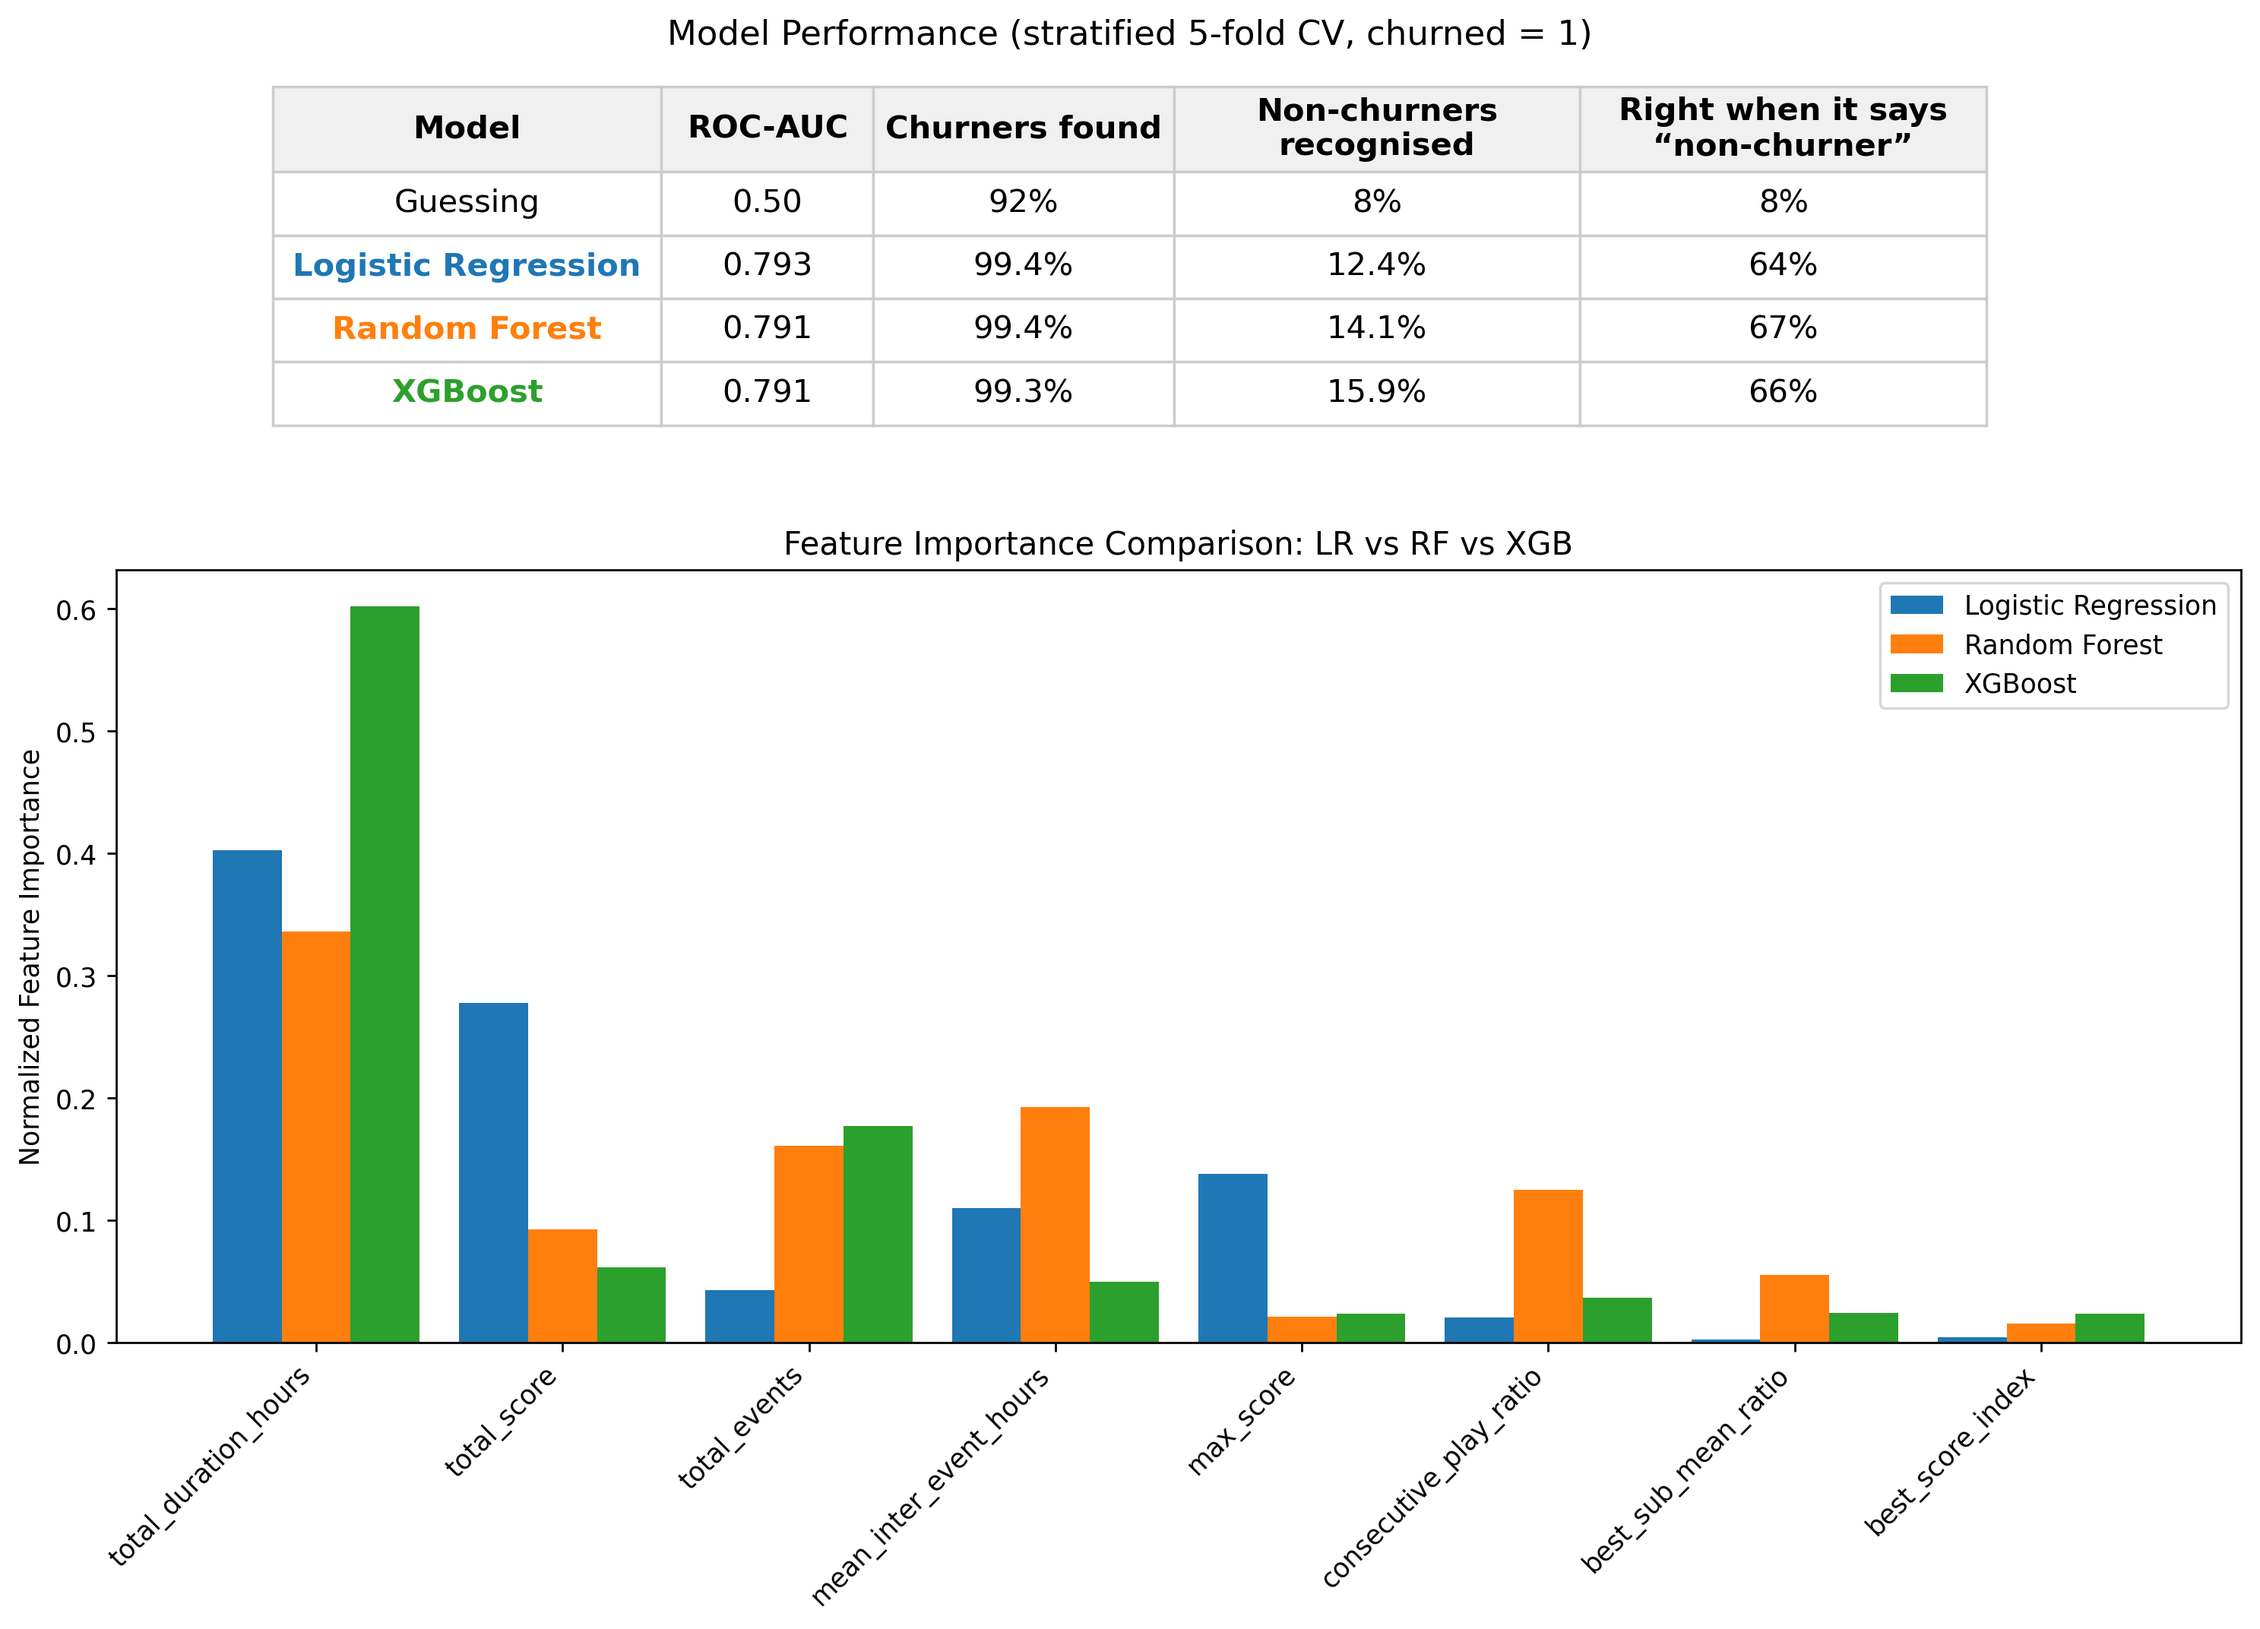
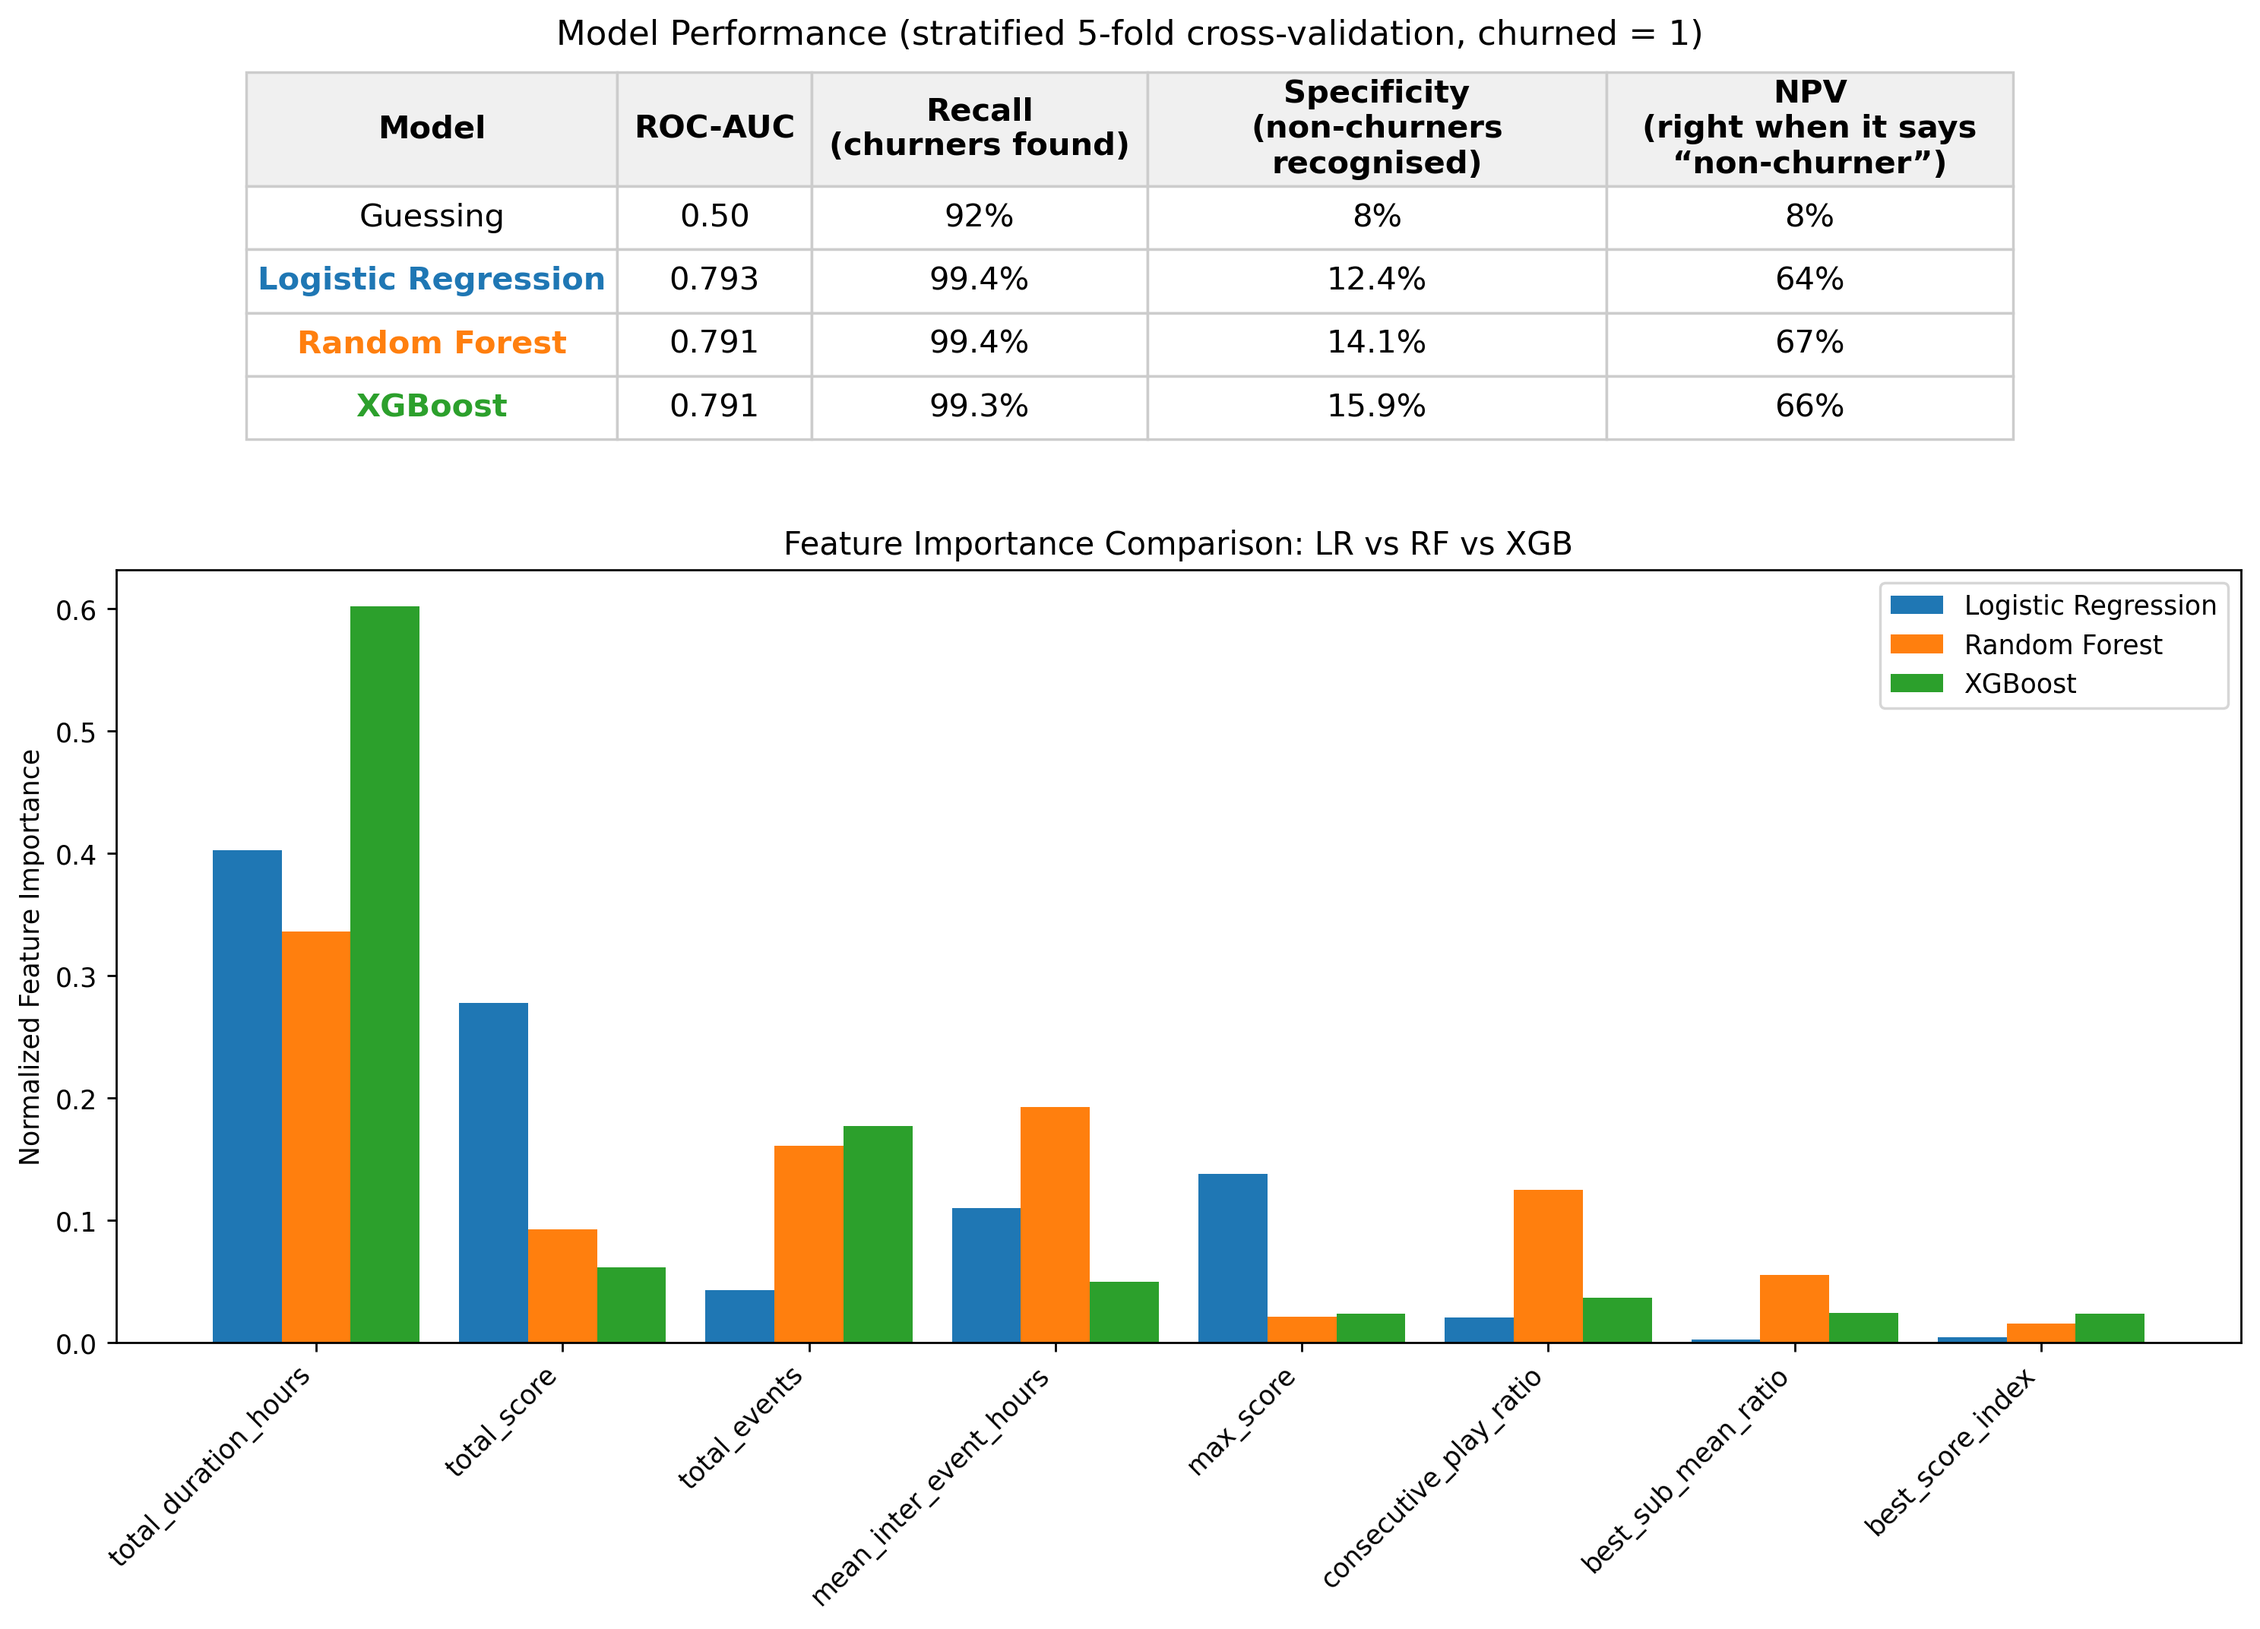
Churn: vaktermen met afkorting bij eerste gebruik (ROC-AUC, XGBoost, SMD, recall, specificity, NPV)

Changed region(s): [[0.0928, 0.0, 0.8971, 0.2812], [0.8662, 0.2188, 0.8971, 0.25]]

diff --git a/en/projects/churn-prediction.md b/en/projects/churn-prediction.md
@@ -8,11 +8,11 @@ title: Which players will quit? Predicting churn in a mobile game
 lead: "Can you tell after the first few days whether a new player will stay or quit?"
 description: Churn defined from raw play logs and predicted with logistic regression, Random Forest and XGBoost. Highest grade of all groups.
 image: /assets/img/projects/churn_abstract.png
-abstract: "Using the bare play data of the mobile game Dodge the Mud (for each game only a player, a timestamp and a score) we predicted which new players quit. Because players do not cancel a subscription, we defined ourselves when someone has quit: whoever stays away for twelve days after five days of play. That applies to 92% of new players. From the raw data we built 13 behavioural features, used 8 of them, and compared three models: logistic regression, Random Forest and XGBoost. They perform roughly equally well, with XGBoost slightly ahead. Put a churner and a non-churner side by side, and the model gives the churner the higher risk 8 times out of 10 (guessing: 5 out of 10). It finds 99% of churners, but recognises only 16% of non-churners, because non-churners are so rare. When the model does say someone will stay, it is right 2 times out of 3. Highest grade of all groups."
+abstract: "Using the bare play data of the mobile game Dodge the Mud (for each game only a player, a timestamp and a score) we predicted which new players quit. Because players do not cancel a subscription, we defined ourselves when someone has quit: whoever stays away for twelve days after five days of play. That applies to 92% of new players. From the raw data we built 13 behavioural features, used 8 of them, and compared three models: logistic regression, Random Forest and eXtreme Gradient Boosting (XGBoost). They perform roughly equally well, with XGBoost slightly ahead. The Receiver Operating Characteristic – Area Under the Curve (ROC-AUC) is 0.79 for all three (guessing: 0.50): put a churner and a non-churner side by side, and the model gives the churner the higher risk in 79% of cases. The recall for churners is 99%, but the specificity is only 16%: the model recognises few non-churners, because they are so rare. Its negative predictive value (NPV) is 66%: when it predicts that a player will not churn, it is right 2 times out of 3. Highest grade of all groups."
 # eerder: abstract_image: /assets/img/projects/churn_abstract_en.svg  (concept-figuur, bestand blijft bewaard)
 # eerder: abstract_image: /assets/img/projects/churn_resultaten_en.svg  (eigen figuur; terug via git tag churn-eigen-figuren)
 abstract_image: /assets/img/projects/churn_abstract_resultaten.png
-abstract_alt: "Results table and feature importance chart. ROC-AUC: logistic regression 0.793, Random Forest 0.791, XGBoost 0.791 (guessing 0.50). Churners found: 99.3–99.4%. Non-churners recognised: 12.4%, 14.1% and 15.9% (guessing 8%). Right when it says non-churner: 64–67% (guessing 8%). Play time (total_duration_hours) is the most important feature for all three models."
+abstract_alt: "Results table and feature importance chart. ROC-AUC: logistic regression 0.793, Random Forest 0.791, XGBoost 0.791 (guessing 0.50). Recall: 99.3–99.4%. Specificity: 12.4%, 14.1% and 15.9% (guessing 8%). Negative predictive value: 64–67% (guessing 8%). Play time (total_duration_hours) is the most important feature for all three models."
 course: Analysis of Customer Data, autumn 2025
 team: "Four students (group 5) · highest grade of all groups. My role: with one teammate I did the methodology and analysis (churn definition, features, models and evaluation)."
 tools: [Python, pandas, scikit-learn, XGBoost, Feature engineering, Cross-validation]
@@ -48,7 +48,7 @@ sample:
 {% include slide.html kicker="Define churn" title="When has a player quit?" text="Players do not cancel a subscription, so we had to set a logical boundary ourselves. We follow each new player for five days. After one day you know too little to tell brief triers from real players. A second group of players only stops around day five, so five days make that difference visible. If someone does not play a single game in the twelve days after, they have quit; 90% of normal breaks are shorter. **From rows to players:** we grouped all games by player and put them in time order. This turned each player into one row with a label: churner = 1 (92%) or non-churner = 0 (8%)." src="/assets/img/projects/churn_nb_speelduur.png" alt="Chart from the notebook: distribution of the time between first and last game per player, left in days and right on a logarithmic scale. On the right two groups are visible: a peak at a few minutes and a second peak around five days." full=true %}
 
 {% comment %} eerder: src="/assets/img/projects/churn_kenmerken_en.svg" (eigen figuur) {% endcomment %}
-{% include slide.html kicker="Feature engineering" title="From raw data to 13 features" text="Loose timestamps and scores tell a model little. So from each player's first five days we built 13 features, such as play time, number of games, breaks and best score. For each feature we measured how strongly non-churners and churners differ. When two features closely resembled each other (correlation above 0.7), we kept only the stronger one. That left 8. With these we trained three models: logistic regression, Random Forest and XGBoost." src="/assets/img/projects/churn_nb_effectgrootte.png" alt="Chart from the notebook: effect size (Cohen's d) of the 13 features between churners and non-churners. Play time has the largest effect (−1.05), average score the smallest (−0.08)." full=true %}
+{% include slide.html kicker="Feature engineering" title="From raw data to 13 features" text="Loose timestamps and scores tell a model little. So from each player's first five days we built 13 features, such as play time, number of games, breaks and best score. For each feature we measured how strongly churners and non-churners differ, using the standardised mean difference (SMD). When two features closely resembled each other (correlation above 0.7), we kept only the stronger one. That left 8. With these we trained three models: logistic regression, Random Forest and XGBoost." src="/assets/img/projects/churn_nb_effectgrootte.png" alt="Chart from the notebook: effect size (Cohen's d) of the 13 features between churners and non-churners. Play time has the largest effect (−1.05), average score the smallest (−0.08)." full=true %}
 
 {% comment %} eerder: src="/assets/img/projects/churn_resultaten_en.svg" (eigen figuur) {% endcomment %}
 {% comment %} verwijderd op verzoek (ROC-curves / confusion matrices); terugzetten = comment weghalen
@@ -82,8 +82,8 @@ sample:
   </figure>
 </section>
 {% endcomment %}
-{% include slide.html kicker="Results" title="The results in numbers" text="We tested each model with stratified 5-fold cross-validation on 25,956 players, so always on players it had not seen (churner = 1, non-churner = 0). **ROC-AUC** says how well a model orders players by risk: take a random churner and a random non-churner, and every model gives the churner the higher risk in 79% of such pairs (guessing: 50%). The three models are roughly equally good; the difference lies in the non-churners, where XGBoost recognises slightly more." src="/assets/img/projects/churn_nb_tabel.png" alt="Table: ROC-AUC, churners found, non-churners recognised and how often a non-churner prediction is right. Guessing 0.50, 92%, 8%, 8%. Logistic regression 0.793, 99.4%, 12.4%, 64%. Random Forest 0.791, 99.4%, 14.1%, 67%. XGBoost 0.791, 99.3%, 15.9%, 66%." full=true %}
+{% include slide.html kicker="Results" title="The results in numbers" text="We tested each model with stratified 5-fold cross-validation on 25,956 players, so always on players it had not seen (churner = 1, non-churner = 0). **ROC-AUC** says how well a model orders players by risk: take a random churner and a random non-churner, and every model gives the churner the higher risk in 79% of such pairs (guessing: 50%). **Recall** is the share of churners the model finds, **specificity** the share of non-churners it recognises and **NPV** how often a non-churner prediction is right, all at a threshold of 0.5. The three models are roughly equally good; the difference lies in the specificity, where XGBoost is slightly higher." src="/assets/img/projects/churn_nb_tabel.png" alt="Table: ROC-AUC, recall, specificity and negative predictive value. Guessing 0.50, 92%, 8%, 8%. Logistic regression 0.793, 99.4%, 12.4%, 64%. Random Forest 0.791, 99.4%, 14.1%, 67%. XGBoost 0.791, 99.3%, 15.9%, 66%." full=true %}
 
 {% include slide.html kicker="Results" title="Play time matters most" text="Which features did the models lean on? For all three, play time in the first five days (total_duration_hours) is by far the most important. After that they differ: logistic regression leans on the total score, Random Forest on the average break between games and XGBoost on the number of games. Importance is normalised per model so that it adds up to 1." src="/assets/img/projects/churn_nb_feature_importance_slide.png" alt="Bar chart from the notebook comparing normalised feature importance of logistic regression, Random Forest and XGBoost. total_duration_hours is the most important for all three (about 0.40, 0.34 and 0.60); then total_score for logistic regression, mean_inter_event_hours for Random Forest and total_events for XGBoost." full=true %}
 
-{% include slide.html kicker="Evaluation" title="Finding churners is easy, recognising non-churners is not" text="The model finds 99% of churners, but recognises only 12–16% of non-churners. That is due to the skewed distribution. There are far fewer non-churners to learn from, and during training each model makes the average error over all players as small as possible. Because 92% churn, 'churner' almost always gives the smallest error, so at the default threshold of 50% probability the model mostly predicts that. When it does say someone will stay, it is right 2 times out of 3 (without a model 8%). A next step is choosing other time windows, so non-churners are less rare, giving non-churners more weight or shifting the threshold." statement=true %}
+{% include slide.html kicker="Evaluation" title="Finding churners is easy, recognising non-churners is not" text="The recall for churners is 99%, but the specificity is only 12–16%: the model recognises few non-churners. That is due to the skewed distribution. There are far fewer non-churners to learn from, and during training each model makes the average error over all players as small as possible. Because 92% churn, 'churner' almost always gives the smallest error, so at the default threshold of 50% probability the model mostly predicts that. When it does predict a non-churner, it is right 2 times out of 3 (NPV 64–67%, without a model 8%). A next step is choosing other time windows, so non-churners are less rare, giving non-churners more weight or shifting the threshold." statement=true %}
